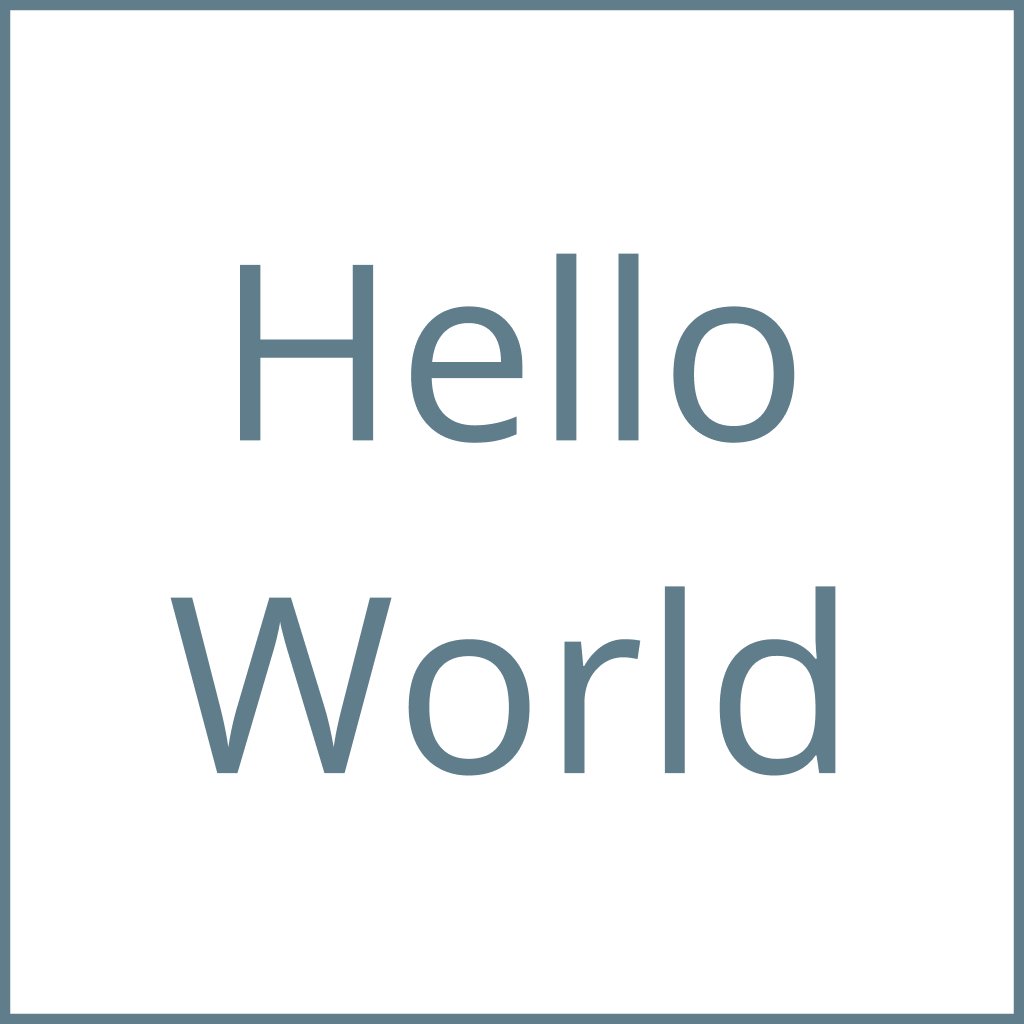
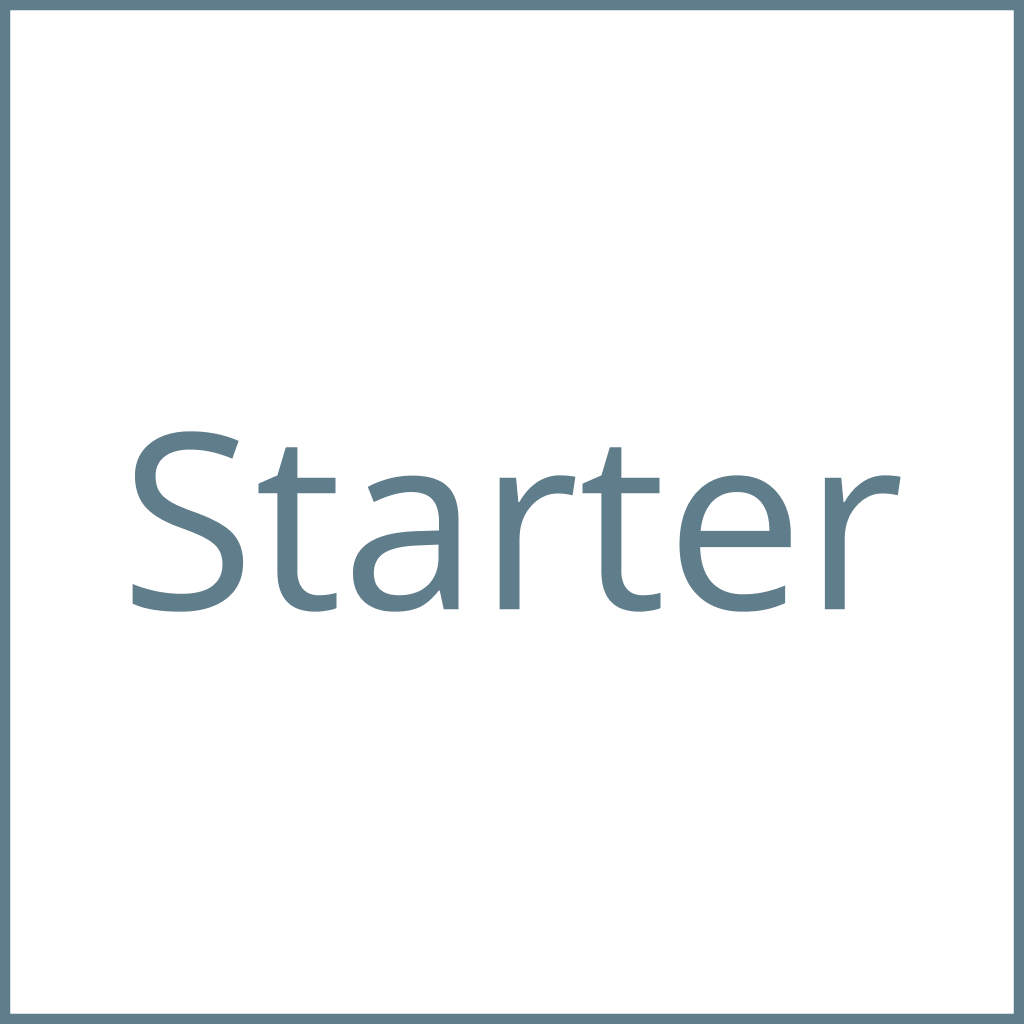
update among,  styles, and assets

Changed region(s): [[0.125, 0.25, 0.875, 0.7812], [0.6562, 0.2812, 0.7812, 0.4375]]

diff --git a/public/index.html b/public/index.html
@@ -6,22 +6,22 @@
   <meta http-equiv="X-UA-Compatible" content="IE=edge">
   <meta name="viewport" content="width=device-width, initial-scale=1, maximum-scale=1, user-scalable=no">
 
-  <title>Hello World</title>
+  <title>Starter</title>
 
   <!-- Search Engine -->
   <meta name="description" content="Some slogan here!">
   <meta name="image" content="%PUBLIC_URL%/logo.png">
   <!-- Schema.org for Google -->
-  <meta itemprop="name" content="Hello World">
+  <meta itemprop="name" content="Starter">
   <meta itemprop="description" content="Some slogan here!">
   <meta itemprop="image" content="%PUBLIC_URL%/logo.png">
   <!-- Twitter -->
   <meta name="twitter:card" content="summary">
-  <meta name="twitter:title" content="Hello World">
+  <meta name="twitter:title" content="Starter">
   <meta name="twitter:description" content="Some slogan here!">
   <meta name="twitter:image" content="%PUBLIC_URL%/logo.png">
   <!-- Open Graph general (Facebook, Pinterest & Google+) -->
-  <meta name="og:title" content="Hello World">
+  <meta name="og:title" content="Starter">
   <meta name="og:description" content="Some slogan here!">
   <meta name="og:image" content="%PUBLIC_URL%/logo.png">
   <meta name="og:type" content="website">
@@ -35,7 +35,7 @@
 
 <body>
   <noscript>
-    <strong>We're sorry but Hello World doesn't work properly without JavaScript enabled. Please enable it to continue.</strong>
+    <strong>We're sorry but Starter doesn't work properly without JavaScript enabled. Please enable it to continue.</strong>
   </noscript>
 
   <div id="app"></div>

diff --git a/src/styles/index.css b/src/styles/index.css
@@ -8,6 +8,14 @@ body {
   padding: 0;
 }
 
+#app {
+  min-height: 100vh;
+  position: relative;
+  display: flex;
+  flex-direction: column;
+  background-color: #f0f1f6;
+}
+
 ::-webkit-scrollbar-track {
   box-shadow: inset 0 0 6px rgba(182, 189, 195, 0.3);
   background-color: rgba(#f5f5f5, 0.6);
@@ -32,15 +40,6 @@ a:any-link {
   text-decoration: none;
 }
 
-#app {
-  min-height: 100vh;
-  position: relative;
-  display: flex;
-  flex-direction: column;
-}
-
 @import './shared.css';
 
-/* @import '~antd/dist/antd.css'; */
-@import './antd.custom.css';
-@import './antd.override.css';
+@import './theme.css';

diff --git a/src/Entrance/LandingView.js b/src/Entrance/LandingView.js
@@ -2,9 +2,15 @@ import React from 'react';
 
 import { Spin } from 'antd';
 
+import LogoImage from '../assets/logo.png';
+
+import styles from './LandingView.module.css';
+
 function LandingView() {
   return (
-    <div className="-x-fit -x-content-center">
+    <div className={styles.container}>
+      <img src={LogoImage} alt="logo" />
+
       <Spin size="large" />
     </div>
   );

diff --git a/src/Entrance/LandingView.module.css b/src/Entrance/LandingView.module.css
@@ -1,0 +1,13 @@
+.container {
+  composes: -x-fit -x-content-center from global;
+  padding: 8px;
+}
+
+.container > * {
+  margin: 8px;
+}
+
+.container img {
+  max-width: 140px;
+  margin-bottom: 32px;
+}

diff --git a/src/styles/shared.css b/src/styles/shared.css
@@ -32,6 +32,7 @@
 
 .-x-content-center {
   display: flex;
+  flex-direction: column;
   align-items: center;
   justify-content: center;
 }

diff --git a/src/styles/theme.css b/src/styles/theme.css
@@ -1,0 +1,3 @@
+/* @import '~antd/dist/antd.css'; */
+@import './antd.custom.css';
+@import './antd.override.css';
